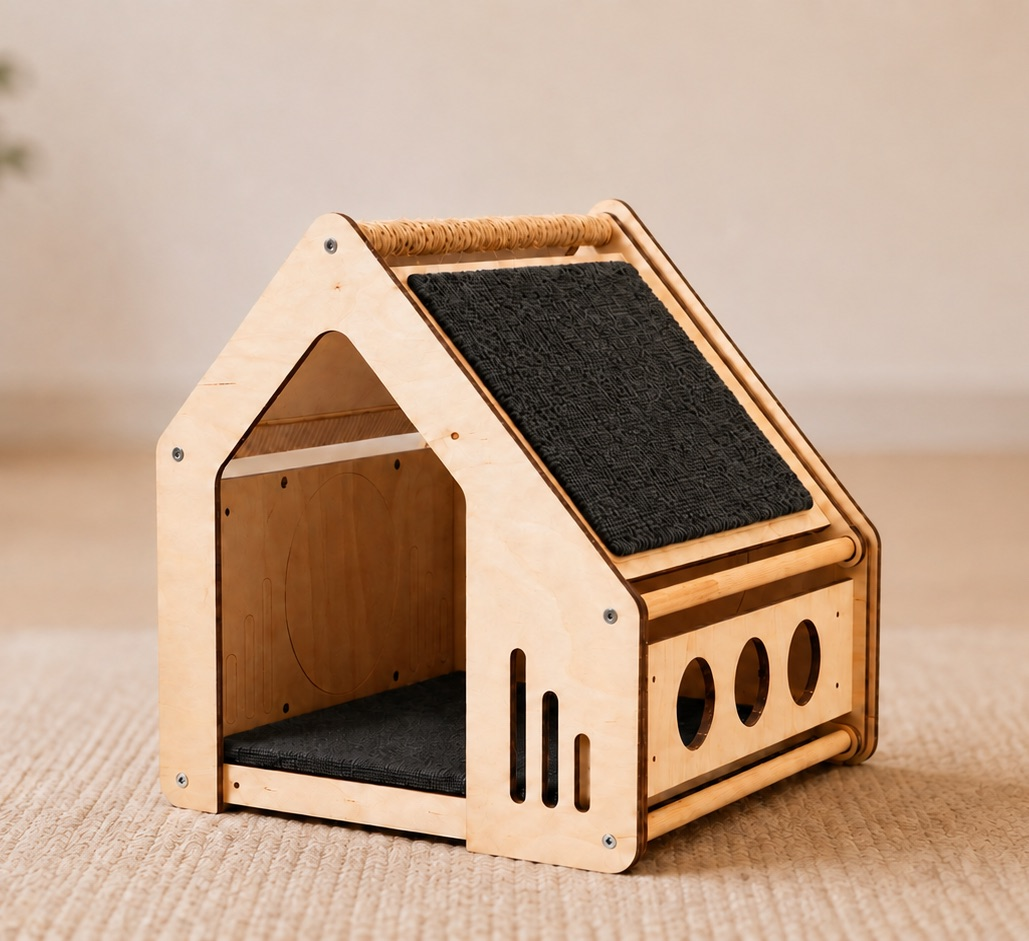
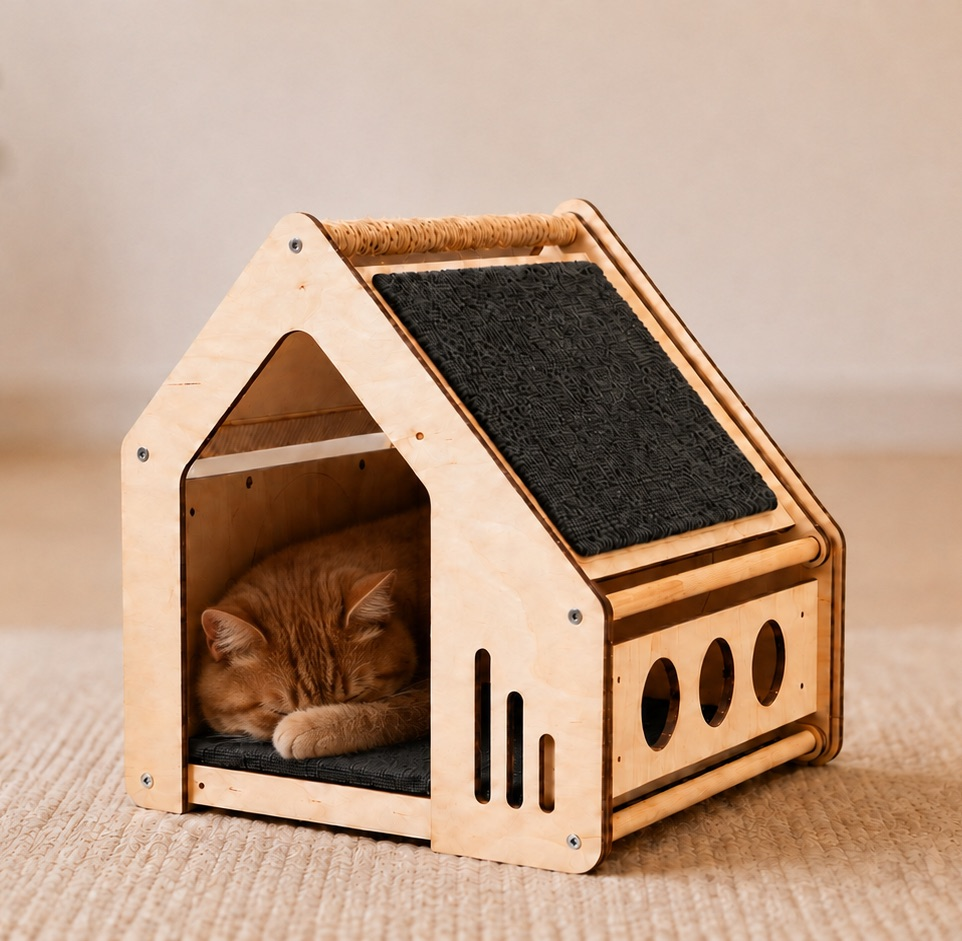
Первый кадр галереи — фотография настоящего домика
Рендер модуля «Крыша» заменён реальным продуктовым снимком: домик из берёзовой
фанеры, ковролиновый скат, джутовый конёк-ручка, внутри спит рыжий кот.

- присланный файл был PNG под расширением .jpg (1 268 КБ). Это LCP-кадр героя
  с fetchpriority="high" — перекодирован в настоящий JPEG q82, 190 КБ.
  Оригинал лежит рядом нетронутым: assets/product-roof-src.png (вне гита,
  как roof-close-look.png для прошлого кадра).
- width 1029 → 962 по новому файлу: неверная подсказка пропорций дёргала бы
  вёрстку при загрузке (CLS).
- ?v=1 → ?v=2, иначе у всех, кто уже открывал страницу, остался бы старый кадр.
- alt переписан под новый снимок (появился кот).

Кадр 4:3 при почти квадратном исходнике (962×941) кроет по вертикали; текущий
--reel-pos: center 78% держит домик целиком, конёк с запасом сверху — проверено,
CSS не трогал.

diff --git a/index.html b/index.html
@@ -137,8 +137,8 @@
 
             <div class="reel-slide" role="group" aria-roledescription="слайд" aria-label="1 из 3">
               <div class="reel-shot">
-                <img src="assets/product-roof.jpg?v=1" width="1029" height="941"
-                     alt="Модуль «Крыша» крупным планом: домик из берёзовой фанеры с угольным ковролином на скате, джутовым коньком-ручкой и плоской лежанкой внутри"
+                <img src="assets/product-roof.jpg?v=2" width="962" height="941"
+                     alt="Модуль «Крыша» крупным планом: домик из берёзовой фанеры с угольным ковролином на скате и джутовым коньком-ручкой; внутри на тёмной лежанке спит рыжий кот"
                      fetchpriority="high" decoding="async">
               </div>
             </div>
